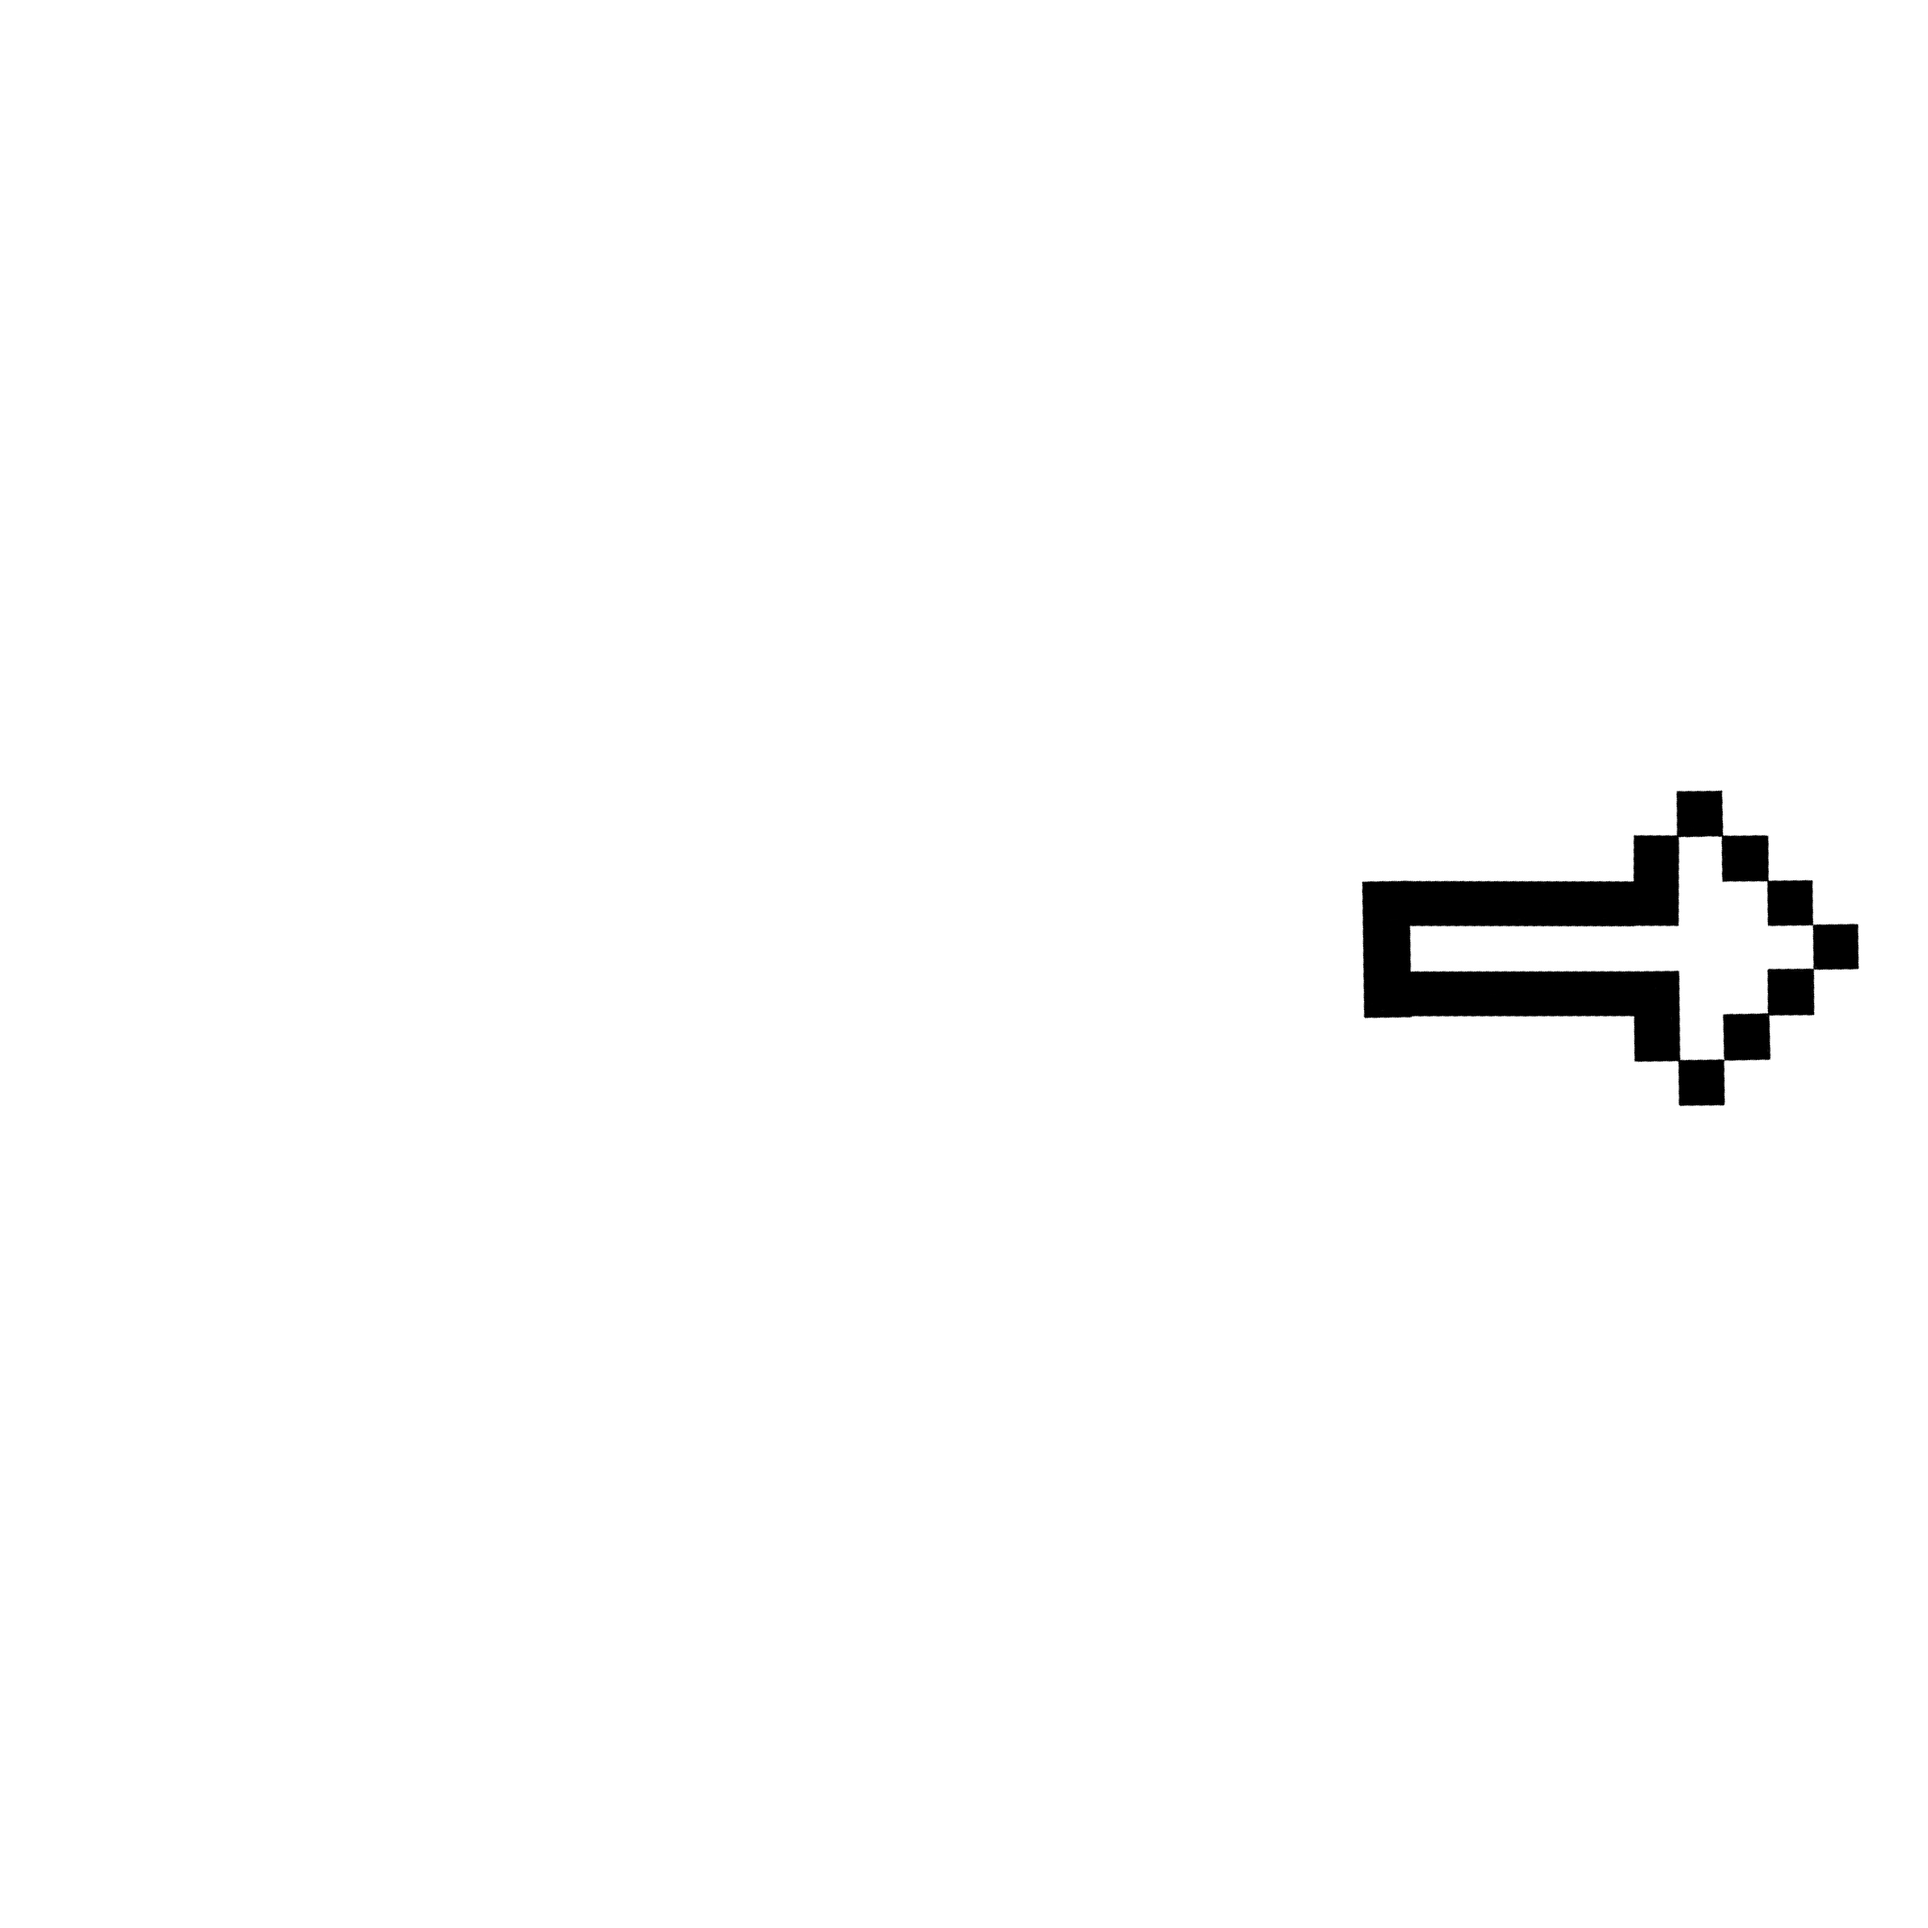
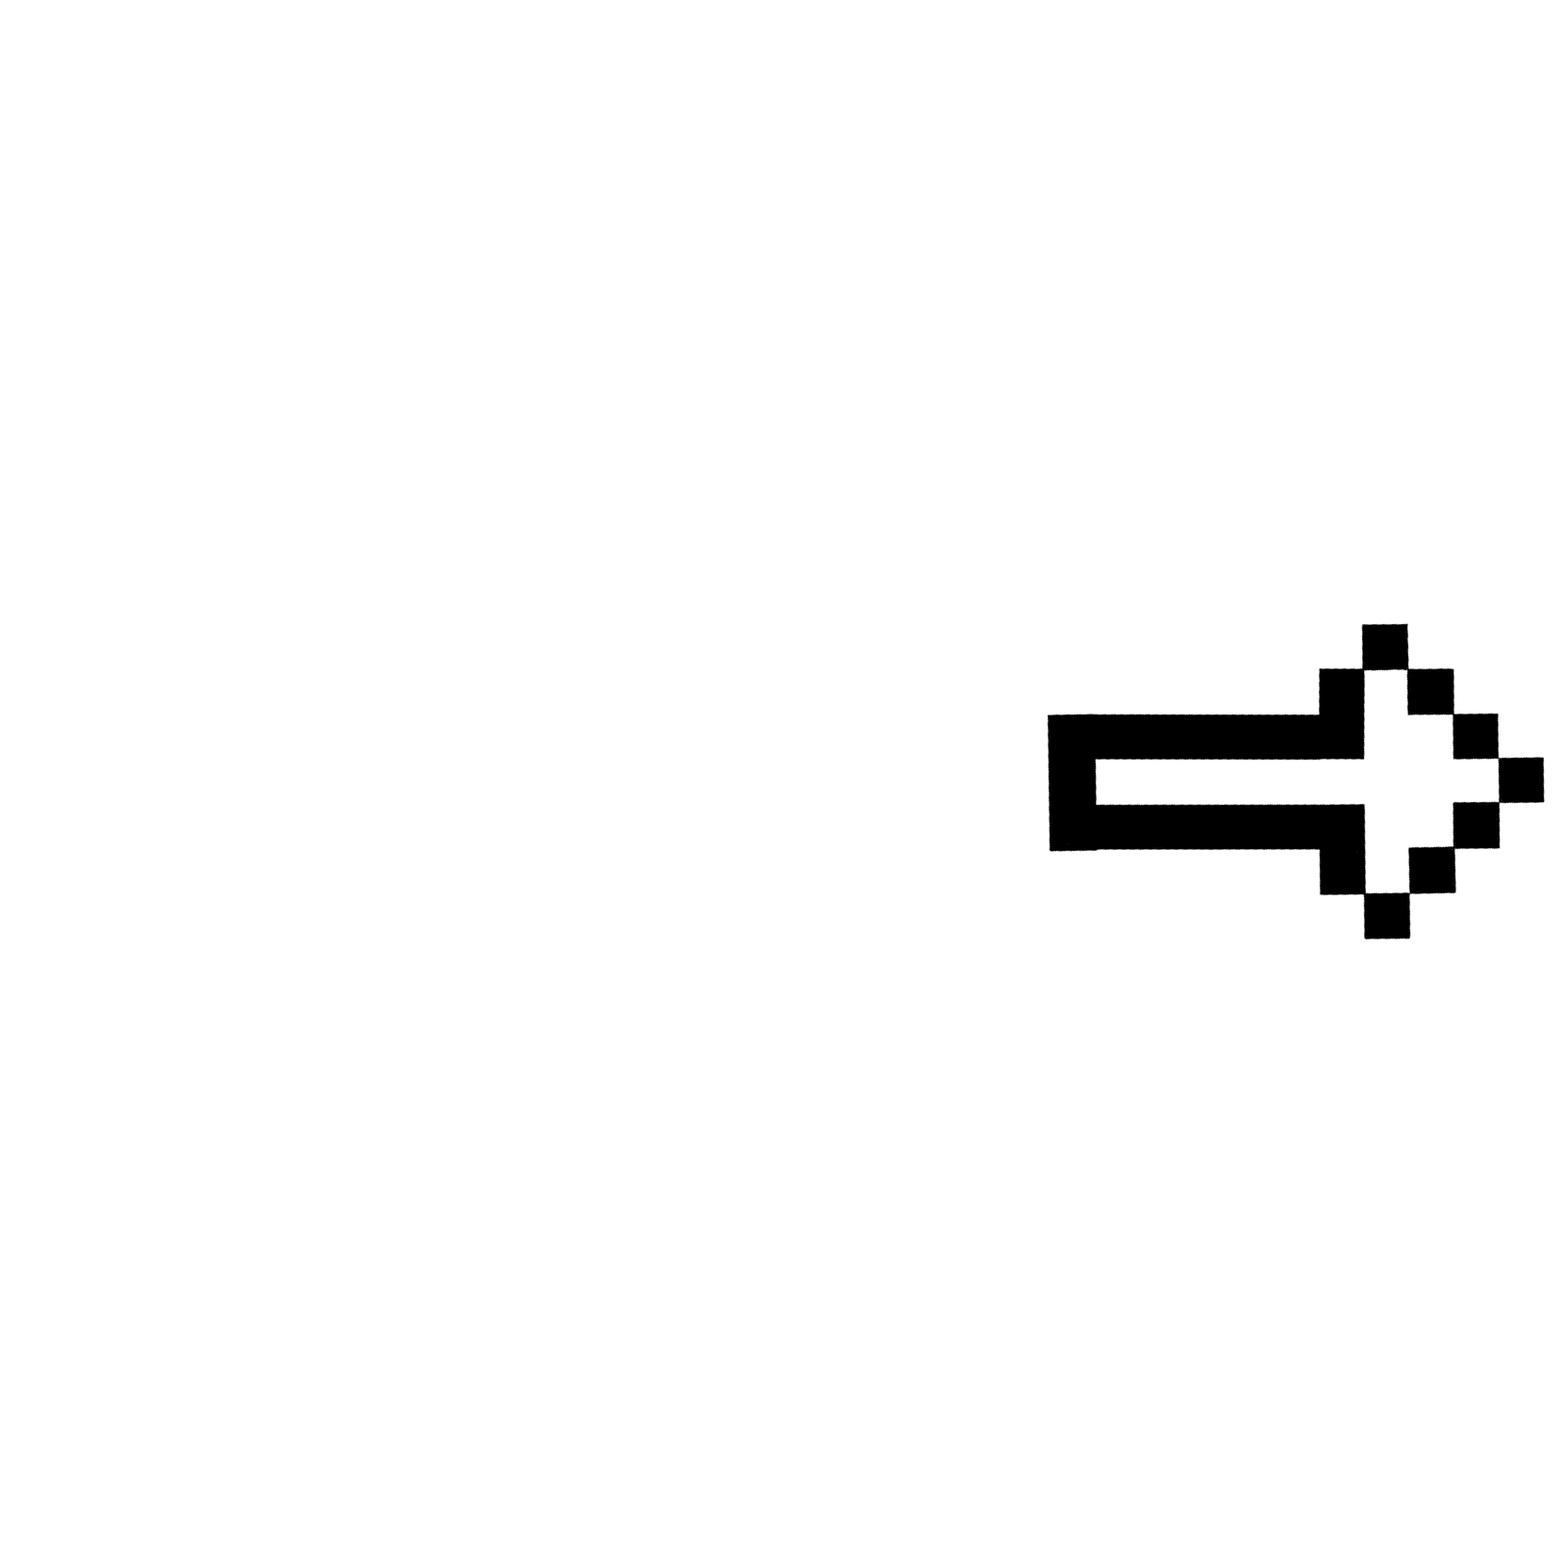
updated images and added a second player

Changed region(s): [[0.6475, 0.4011, 1.0, 0.6171]]

diff --git a/.idea/game.py b/.idea/game.py
@@ -59,15 +59,18 @@ pygame.display.set_caption("Golf")
 
 BALL_WIDTH, BALL_HEIGHT = 30, 30
 ARROW_WIDTH, ARROW_HEIGHT = BALL_WIDTH*3, BALL_HEIGHT*3
-ball_img = pygame.image.load( "golfball.png" ).convert_alpha() # put the name of ball image here
-arrow_img = pygame.image.load( "arrow.png" ).convert_alpha()
+ball_img1 = pygame.image.load( "../assets/player1ball.png" ).convert_alpha() # put the name of ball image here
+ball_img2 = pygame.image.load( "../assets/player2ball.png" ).convert_alpha()
+arrow_img = pygame.image.load( "../assets/black_arrow.png" ).convert_alpha()
 
 
 
 arrow = Arrow(arrow_img, 0, 0, BALL_WIDTH*3, BALL_HEIGHT*3)
-player1 = Ball(ball_img, 100, 200, BALL_WIDTH, BALL_HEIGHT, arrow)
+player1 = Ball(ball_img1, 75, 150, BALL_WIDTH, BALL_HEIGHT, arrow)
+player2 = Ball(ball_img2, 75, 250, BALL_WIDTH, BALL_HEIGHT, arrow)
+
 arrow.reset(player1)
-player_list = [player1]
+player_list = [player1, player2]
 
 # create a font
 afont = pygame.font.SysFont( "Helvetica", 32, bold=True )
@@ -116,7 +119,7 @@ def handle_boundries(plr):
 
         print("reached")
         plr.reflect_y()
-    if plr.y <= 0 or plr.y >= 480-plr.height:
+    if plr.y <= plr.height/5 or plr.y >= 480-plr.height:
         plr.reflect_x()
 
 
@@ -196,8 +199,11 @@ def main():
                 if event.key == pygame.K_SPACE:
                     plr.launch(VELOCITY)
                     arrow.is_visible = False
-
                     current_player = len(player_list)-1-current_player
+                    nxt_p = player_list[current_player]
+                    if nxt_p.vel < 1:
+                        arrow.reset(nxt_p)
+
                 draw_players(player_list, current_player, arrow)
 
         key_pressed = pygame.key.get_pressed()
@@ -212,11 +218,13 @@ def main():
 
         # update the screen
         draw_window(force_scale)
-        for plr in player_list:
-            plr.move()
-            handle_boundries(plr)
-            if plr.vel < 1 and plr.vel != 0:
-                arrow.reset(plr)
+        for i in range(len(player_list)):
+            player_list[i].move()
+            handle_boundries(player_list[i])
+        plr = player_list[current_player]
+        if plr.vel < 1 and plr.vel != 0:
+            arrow.reset(plr)
+
 
         draw_players(player_list, current_player, arrow)
 
